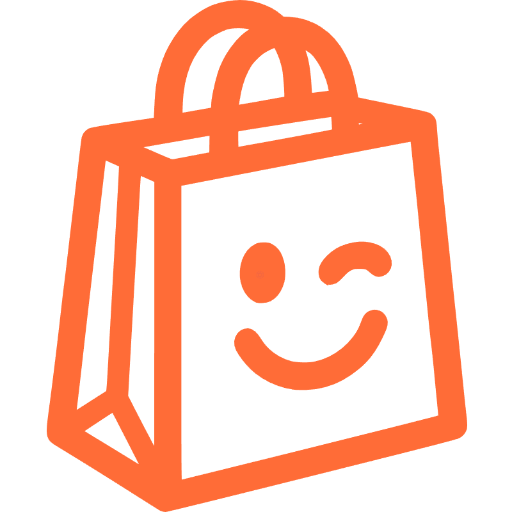
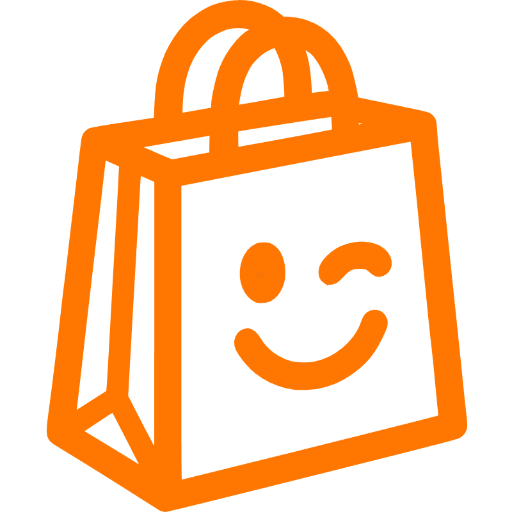
update : frontend-main theme styles.

diff --git a/frontend-main/assets/css/main.css b/frontend-main/assets/css/main.css
@@ -52,13 +52,13 @@ body {
   --radius-e: 28px;
   --radius-f: 999px;
 
-  --orange-a: #ff6c37;
-  --red-a: #ff3b30;
+  --orange-a: #ff7700;
+  --red-a: #ff3300;
   --yellow-a: #ffcc00;
-  --blue-a: #007aff;
-  --green-a: #34c759;
-  --purple-a: #af52de;
-  --teal-a: #5ac8fa;
+  --blue-a: #0055ff;
+  --green-a: #00aa55;
+  --purple-a: #9933cc;
+  --teal-a: #33cccc;
   --black-a: #000000;
   --white-a: #ffffff;
   --gray-a: #8e8e93;

diff --git a/frontend-main/components/CardanoForm.vue b/frontend-main/components/CardanoForm.vue
@@ -168,10 +168,6 @@ const store = reactive({
         {
             label: 'Northern Warehouse',
             details: '321 Commerce St, Toronto, ON M5J 2N8'
-        },
-        {
-            label: 'Western Warehouse',
-            details: '98 Sunset Blvd, Los Angeles, CA 90001'
         }
     ]
 })
